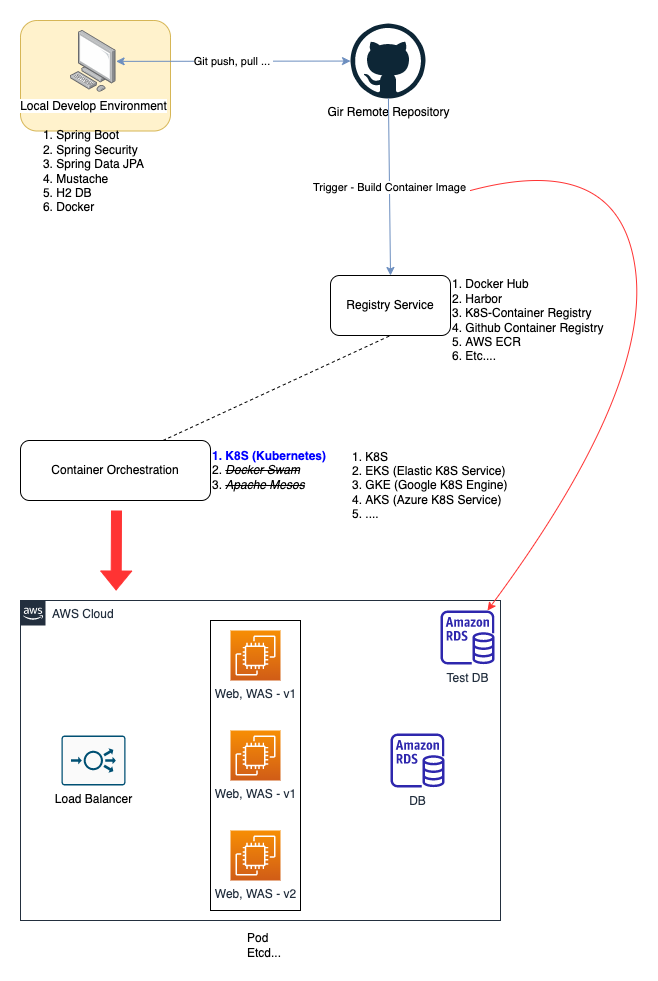
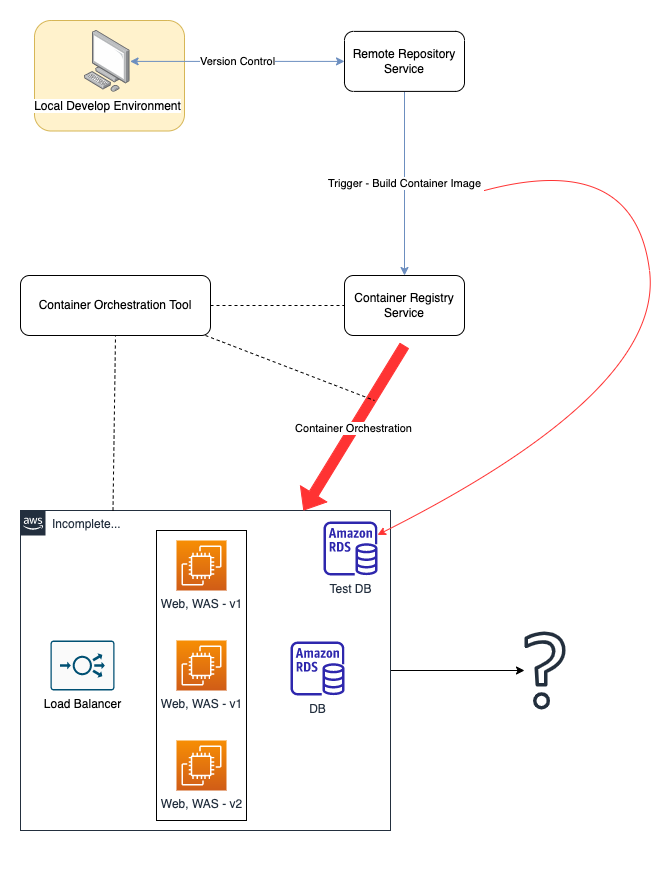
Update README.md

diff --git a/README.md b/README.md
@@ -1,10 +1,10 @@
 # 💻 Spring Boot OAuth
 Spring Boot OAuth tutorial
-## 📚 Content
-1. Reference book
-2. Reference book refactoring version
-3. To be in CFI project...
 
+## 📚 Content
+1. Reference Book
+2. Refactoring and CFI
+3. What we have to **Do!**
 
 ## 📒 Reference Book
 ### Architecture
@@ -25,17 +25,39 @@ Spring Boot OAuth tutorial
 * SSH
 * Shell Script
 
-## 📔 Reference Book Refactoring Version
+## 📔 Refactoring and CFI
 ### Architecture
-![freelec](./image/freelec-refac.png)
+![freelec_refac](./image/freelec-refac.png)
 
-#### 1.Application
-* Spring Boot(v2.4.13), Spring Security, Spring Data JPA, Querydsl
+#### 1. Backend
+* **_Java_**, Javascript 
+* **_Spring_**, Node.js (Express.js, Nest.js…)
 
-#### 2. Container
-* Docker
-* Docker-Compose
+#### 2. Frontend
+* Javascript, html, css
+* **_Vue.js 3_**, Template Engine(<s>JSP</s>, Thymeleaf)
+#### 3. Database
+* **_MariaDB_**, PostgreSQL, MySQL, Oracle 
+* **_H2_**, Redis, Memcached
+* Elastic Search, MongoDB, InfluxDB
+#### 4. Version Control
+* **_Git_**, SVN
+* **_Github_**, Gitlab, Bitbucket, AWS CodeCommit
+#### 5. CI/CD
+* AWS CodePipeline, Jenkins, CircleCI, Travis CI, Bamboo
+#### 6. Virtualization
+* Hypervisor-based: VirtualBox, VMWare
+* Container-based(Kernel-Sharing): Docker...
+#### 7. Container Registry
+* Docker Hub, Harbor, K8S-Container Registry, Github Container Registry, AWS ECR
+#### 8.Container Orchestration Platform
+* **_Kubernetes(K8S)_**, Docker Swarm, Apache Mesos… 
+* EKS, GKE, AKS
 
+## 👨💻 What we have to Do!
+### 1. Seminar
+
+### 2. CFI Project
 
 ## 📖 Reference
 * 스프링 부트와 AWS로 혼자 구현하는 웹 서비스
